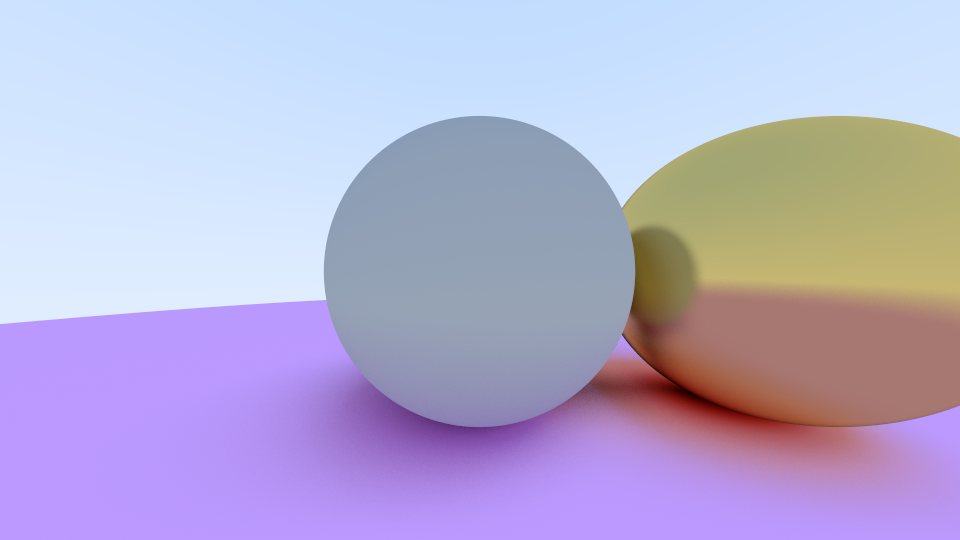
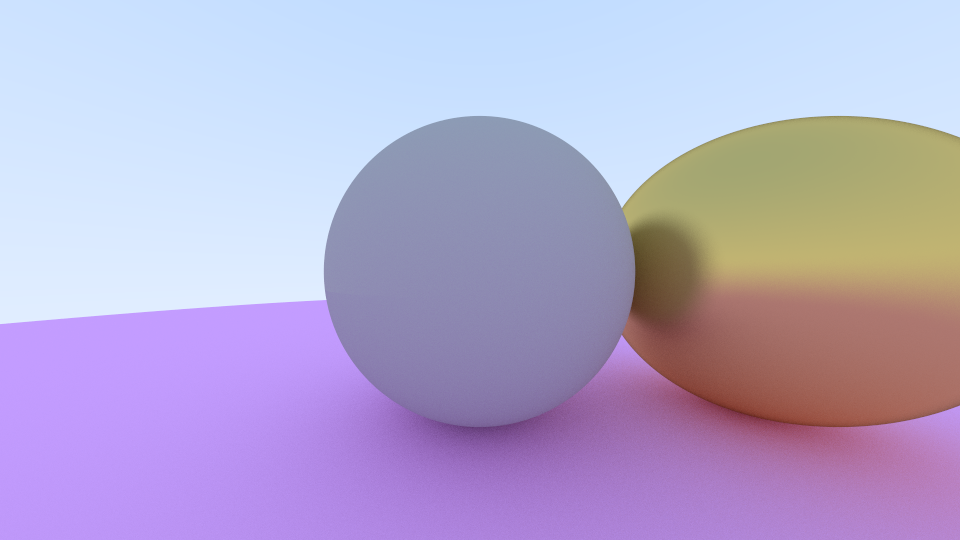
Fix diffuse material

Changed region(s): [[0.3438, 0.3852, 1.0, 1.0]]

diff --git a/src/main.rs b/src/main.rs
@@ -71,23 +71,16 @@ fn generate_scene() -> ObjectList {
     for a in -11..11 {
         for b in -11..11 {
             let center = Vec3::new(
-                a as f32 + 0.9 * rng.gen_range(0.0..1.0),
+                a as f32 + 0.9 * rng.gen::<f32>(),
                 0.2,
-                b as f32 + 0.9 * rng.gen_range(0.0..1.0),
+                b as f32 + 0.9 * rng.gen::<f32>(),
             );
             if (center - Vec3::new(4.0, 0.2, 0.0)).mag() > 0.9 {
-                let material_choice = rng.gen_range(0.0..1.0);
+                let material_choice = rng.gen::<f32>();
                 let material = if material_choice < 0.8 {
                     Material::Diffuse {
-                        albedo: Vec3::new(
-                            rng.gen_range(0.0..1.0),
-                            rng.gen_range(0.0..1.0),
-                            rng.gen_range(0.0..1.0),
-                        ) * Vec3::new(
-                            rng.gen_range(0.0..1.0),
-                            rng.gen_range(0.0..1.0),
-                            rng.gen_range(0.0..1.0),
-                        ),
+                        albedo: Vec3::new(rng.gen(), rng.gen(), rng.gen())
+                            * Vec3::new(rng.gen(), rng.gen(), rng.gen()),
                     }
                 } else if material_choice < 0.95 {
                     Material::Metal {
@@ -125,8 +118,8 @@ fn raytrace(camera: Camera, objects: ObjectList) {
                 let mut rng = SmallRng::seed_from_u64(i as u64);
                 let mut pixel = Vec3::zero();
                 for _ in 0..SAMPLES_PER_PIXEL {
-                    let u = (x as f32 + rng.gen_range(0.0..1.0)) / (IMAGE_WIDTH as f32 - 1.0);
-                    let v = (y as f32 + rng.gen_range(0.0..1.0)) / (IMAGE_HEIGHT as f32 - 1.0);
+                    let u = (x as f32 + rng.gen::<f32>()) / (IMAGE_WIDTH as f32 - 1.0);
+                    let v = (y as f32 + rng.gen::<f32>()) / (IMAGE_HEIGHT as f32 - 1.0);
                     let ray = camera.raycast(u, v);
                     pixel += color(&ray, &objects, 0, &mut rng);
                 }

diff --git a/src/materials.rs b/src/materials.rs
@@ -69,7 +69,11 @@ pub enum RayScatterResult {
 
 fn random_in_unit_sphere(rng: &mut SmallRng) -> Vec3 {
     loop {
-        let p = Vec3::from(rng.gen::<[f32; 3]>());
+        let p = Vec3::new(
+            rng.gen_range(-1.0..=1.0),
+            rng.gen_range(-1.0..=1.0),
+            rng.gen_range(-1.0..=1.0),
+        );
         if p.mag_sq() < 1.0 {
             break p;
         }
